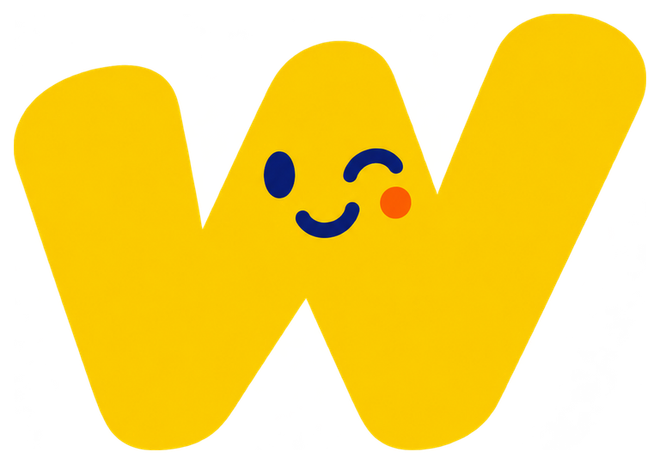
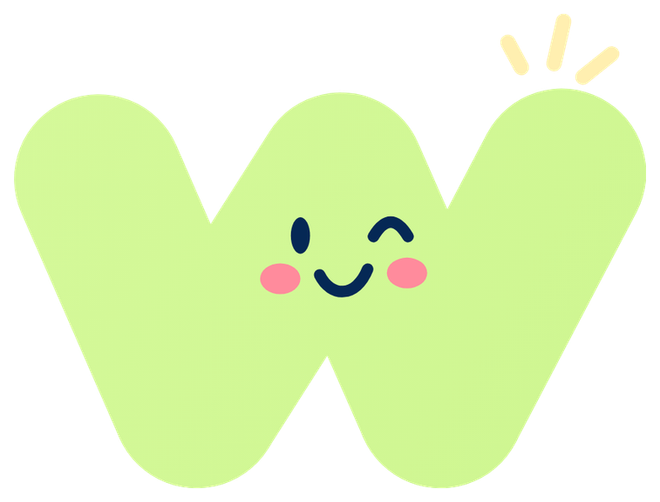
Refresh Worldia support for build 17 and lime mascot

diff --git a/worldia/assets/worldia.css b/worldia/assets/worldia.css
@@ -1,6 +1,9 @@
 /* Worldia-specific refresh. The publisher index and other apps retain their styles. */
-body.worldia-site{--ink:#252844;--deep:#7862b5;--teal:#544387;--paper:#fffdf7;--rule:#e0dceb;--muted:#5d5d70;--cream:#f6e3ad;--serif:ui-rounded,"SF Pro Rounded",system-ui,-apple-system,"Segoe UI",sans-serif}
-.worldia-site .brand{font-weight:850;letter-spacing:-.06em}.worldia-site .mast{background:#fffdf9}.worldia-site .mast .brand img{width:42px;height:42px;border-radius:13px}.worldia-site .hero{color:var(--ink);background:#ede6fa}.worldia-site .hero .wrap{grid-template-columns:1.25fr .85fr;padding-block:clamp(3rem,6vw,5rem);gap:4rem}.worldia-site .hero h1{font-weight:850;font-size:clamp(3.1rem,5.5vw,5rem);line-height:1.06;letter-spacing:-.055em}.worldia-site .hero h1 em{font-weight:850;color:#65509e;font-style:normal}.worldia-site .hero .eyebrow{color:#544387}.worldia-site .eyebrow:before{background:#a27017}.worldia-site .hero p.lede{color:#49425c;font-size:1.12rem;max-width:34em;line-height:1.7}.hero-actions{display:flex;gap:1.2rem;align-items:center;flex-wrap:wrap}.worldia-site .hero .button{background:#44376e;color:#fff}.worldia-site .hero .button:hover{background:#2f244f}.hero-link{font-weight:650;color:#44376e;min-height:44px;display:inline-flex;align-items:center}.worldia-site .hero .hero-note{color:#655d76;font-size:.8rem;margin-top:1.5rem}.mascot-card{margin:0;min-width:0;border-radius:38px;background:linear-gradient(145deg,#a38bdd,#839adf);box-shadow:0 16px 0 #7766ad1c;padding:1.5rem 1rem 2rem;display:flex;flex-direction:column;align-items:center;transform:rotate(3deg)}.mascot-card img{display:block;width:100%;max-width:330px;height:auto;margin:1.5rem 0 1rem}.mascot-label{font-size:.74rem;font-weight:800;letter-spacing:.12em;text-transform:uppercase;color:#292547;background:#ffffff70;padding:.35rem .8rem;border-radius:20px}.mascot-card figcaption{text-align:center;font-size:1.3rem;font-weight:800;line-height:1.25;color:#292547;letter-spacing:-.03em}.worldia-site .guide h2,.worldia-site .screens-section h2{font-size:clamp(1.9rem,3.1vw,2.7rem);font-weight:800;line-height:1.16;letter-spacing:-.045em}.feature-grid{display:grid;grid-template-columns:repeat(3,minmax(0,1fr));gap:2rem;margin-top:2.3rem}.feature{border-top:2px solid var(--rule);padding-top:1.3rem}.feature-number{font-size:2.7rem;line-height:1;font-weight:850;letter-spacing:-.07em;color:#67509b}.feature h3{font-size:1.15rem;margin:1rem 0 .5rem;line-height:1.3;letter-spacing:-.025em}.feature p,.journal-grid p:not(.eyebrow){color:var(--muted);margin:.5rem 0 0;line-height:1.8}.screens-section{background:#f5f0e6;border-block:1px solid #e8e1d5;padding:3rem 0}.screens-section h2{margin:0 0 2rem}.screens-grid{display:grid;grid-template-columns:repeat(4,minmax(0,1fr));gap:1.2rem}.screens-grid figure{margin:0;min-width:0}.screens-grid a{display:block;background:#fff;border:1px solid #e6e1d8;border-radius:19px;overflow:hidden;box-shadow:0 5px 12px #25284409}.screens-grid img{display:block;width:100%;height:auto;aspect-ratio:6/13;object-fit:contain;object-position:top;background:#fafafa}.screens-grid figcaption{display:flex;flex-direction:column;gap:.35rem;padding:1rem .15rem 0;line-height:1.55;font-size:.85rem;color:var(--muted)}.screens-grid figcaption strong{font-size:1rem;color:var(--ink);line-height:1.3}.screen-note{font-size:.76rem;color:#68646a;margin:1.5rem 0 0}.journal-grid{display:grid;grid-template-columns:1fr 1fr;gap:3rem}.journal-grid article+article{border-left:1px solid var(--rule);padding-left:3rem}.journal-grid h2{margin:0 0 1rem;max-width:13em}.help-section{background:#eee8f7}.worldia-site .card{background:#fffefa;border-radius:16px;padding:1.4rem;box-shadow:none}.worldia-site .card strong{font-size:1.35rem;font-weight:750;letter-spacing:-.035em}.worldia-site .card:hover{border-color:#a48acb}.worldia-site .card .tag{margin-bottom:.8rem}.offline-note{font-size:.88rem;color:var(--muted);margin:1.7rem 0 0;max-width:68em}.worldia-site .pagehead{background:#eee8f7}.worldia-site .pagehead h1{font-weight:800;font-size:clamp(2.2rem,4.5vw,3.5rem);letter-spacing:-.05em}.worldia-site .copy h2{font-weight:750;letter-spacing:-.03em;font-size:clamp(1.35rem,2.5vw,1.8rem)}.worldia-site .aside{background:#f0edf6}.worldia-site .button{border-radius:10px}.worldia-site .foot{background:#fffdf9}.worldia-site a:focus-visible,.worldia-site summary:focus-visible{outline-color:#7251bd}
+body.worldia-site{--ink:#062753;--deep:#062753;--teal:#123b64;--paper:#fffef9;--rule:#dbe5dd;--muted:#526271;--cream:#fff0b7;--serif:ui-rounded,"SF Pro Rounded",system-ui,-apple-system,"Segoe UI",sans-serif}
+.worldia-site .brand{font-weight:850;letter-spacing:-.06em}.worldia-site .mast{background:#fffdf9}.worldia-site .mast .brand img{width:42px;height:42px;border-radius:13px}.worldia-site .hero{color:var(--ink);background:#edf4e9}.worldia-site .hero .wrap{grid-template-columns:1.25fr .85fr;padding-block:clamp(3rem,6vw,5rem);gap:4rem}.worldia-site .hero h1{font-weight:850;font-size:clamp(3.1rem,5.5vw,5rem);line-height:1.06;letter-spacing:-.055em}.worldia-site .hero h1 em{font-weight:850;color:#123b64;font-style:normal}.worldia-site .hero .eyebrow{color:#123b64}.worldia-site .eyebrow:before{background:#598230}.worldia-site .hero p.lede{color:#40596c;font-size:1.12rem;max-width:34em;line-height:1.7}.hero-actions{display:flex;gap:1.2rem;align-items:center;flex-wrap:wrap}.worldia-site .hero .button{background:#062753;color:#fff}.worldia-site .hero .button:hover{background:#0b3a6c}.hero-link{font-weight:650;color:#062753;min-height:44px;display:inline-flex;align-items:center}.worldia-site .hero .hero-note{color:#526271;font-size:.8rem;margin-top:1.5rem}.mascot-card{margin:0;min-width:0;border-radius:38px;background:linear-gradient(145deg,#0b315e,#031c40);box-shadow:0 16px 0 #0627531c;padding:1.5rem 1rem 2rem;display:flex;flex-direction:column;align-items:center;transform:rotate(3deg)}.mascot-card img{display:block;width:100%;max-width:330px;height:auto;margin:1.5rem 0 1rem}.mascot-label{font-size:.74rem;font-weight:800;letter-spacing:.12em;text-transform:uppercase;color:#e5ffba;background:#ffffff14;padding:.35rem .8rem;border-radius:20px}.mascot-card figcaption{text-align:center;font-size:1.3rem;font-weight:800;line-height:1.25;color:#e5ffba;letter-spacing:-.03em}.worldia-site .guide h2,.worldia-site .screens-section h2{font-size:clamp(1.9rem,3.1vw,2.7rem);font-weight:800;line-height:1.16;letter-spacing:-.045em}.feature-grid{display:grid;grid-template-columns:repeat(3,minmax(0,1fr));gap:2rem;margin-top:2.3rem}.feature{border-top:2px solid var(--rule);padding-top:1.3rem}.feature-number{font-size:2.7rem;line-height:1;font-weight:850;letter-spacing:-.07em;color:#123b64}.feature h3{font-size:1.15rem;margin:1rem 0 .5rem;line-height:1.3;letter-spacing:-.025em}.feature p,.journal-grid p:not(.eyebrow){color:var(--muted);margin:.5rem 0 0;line-height:1.8}.screens-section{background:#f5f0e6;border-block:1px solid #e8e1d5;padding:3rem 0}.screens-section h2{margin:0 0 2rem}.screens-grid{display:grid;grid-template-columns:repeat(4,minmax(0,1fr));gap:1.2rem}.screens-grid figure{margin:0;min-width:0}.screens-grid a{display:block;background:#fff;border:1px solid #e6e1d8;border-radius:19px;overflow:hidden;box-shadow:0 5px 12px #06275309}.screens-grid img{display:block;width:100%;height:auto;aspect-ratio:6/13;object-fit:contain;object-position:top;background:#fafafa}.screens-grid figcaption{display:flex;flex-direction:column;gap:.35rem;padding:1rem .15rem 0;line-height:1.55;font-size:.85rem;color:var(--muted)}.screens-grid figcaption strong{font-size:1rem;color:var(--ink);line-height:1.3}.screen-note{font-size:.76rem;color:#526271;margin:1.5rem 0 0}.journal-grid{display:grid;grid-template-columns:1fr 1fr;gap:3rem}.journal-grid article+article{border-left:1px solid var(--rule);padding-left:3rem}.journal-grid h2{margin:0 0 1rem;max-width:13em}.help-section{background:#edf4e9}.worldia-site .card{background:#fffefa;border-radius:16px;padding:1.4rem;box-shadow:none}.worldia-site .card strong{font-size:1.35rem;font-weight:750;letter-spacing:-.035em}.worldia-site .card:hover{border-color:#89b64f}.worldia-site .card .tag{margin-bottom:.8rem}.offline-note{font-size:.88rem;color:var(--muted);margin:1.7rem 0 0;max-width:68em}.worldia-site .pagehead{background:#edf4e9}.worldia-site .pagehead h1{font-weight:800;font-size:clamp(2.2rem,4.5vw,3.5rem);letter-spacing:-.05em}.worldia-site .copy h2{font-weight:750;letter-spacing:-.03em;font-size:clamp(1.35rem,2.5vw,1.8rem)}.worldia-site .aside{background:#edf4e9}.worldia-site .button{border-radius:10px}.worldia-site .foot{background:#fffdf9}.worldia-site a:focus-visible,.worldia-site summary:focus-visible{outline-color:#275d8f}
 @media(max-width:900px){.worldia-site .hero .wrap{gap:2rem}.screens-grid{grid-template-columns:repeat(2,minmax(0,1fr));gap:2rem;max-width:650px;margin-inline:auto}.feature-grid{gap:1.25rem}.mascot-card{border-radius:28px;padding:1rem .75rem 1.5rem}.mascot-card figcaption{font-size:1.1rem}}
 @media(max-width:600px){.worldia-site .hero .wrap{grid-template-columns:1fr;padding-block:2.5rem;gap:2.5rem}.worldia-site .hero h1{font-size:3.25rem}.worldia-site .hero p.lede{font-size:1.02rem}.mascot-card{width:min(80%,310px);margin-inline:auto;transform:rotate(2deg)}.mascot-card img{margin:1rem 0 .5rem}.worldia-site .guide{padding-block:2.5rem}.feature-grid{grid-template-columns:1fr;gap:1.7rem}.feature{display:grid;grid-template-columns:74px 1fr;column-gap:1rem;align-items:start}.feature-number{grid-row:1/3;font-size:2.6rem}.feature h3{margin:.1rem 0 .4rem}.feature p{margin:0}.screens-section{padding:2.5rem 0}.screens-grid{gap:1.6rem .9rem}.screens-grid a{border-radius:12px}.screens-grid figcaption{font-size:.8rem}.screens-grid figcaption strong{font-size:.95rem}.journal-grid{grid-template-columns:1fr;gap:2.5rem}.journal-grid article+article{padding:2.5rem 0 0;border-left:0;border-top:1px solid var(--rule)}.worldia-site .mast nav a{font-size:.85rem}.worldia-site .pagehead .intro{font-size:1rem}.worldia-site .pagehead h1{font-size:2.3rem}}
 @media print{.worldia-site .hero,.worldia-site .pagehead,.help-section,.screens-section{background:white;color:black}.mascot-card,.screens-grid{display:none}.feature-grid,.journal-grid{display:block}.journal-grid article+article{border:0;padding:0}.worldia-site .hero h1 em{color:black}}
+
+/* Build 17: concise player-facing release help and the new W. */
+.release-note{border:1px solid #dbe5dd;background:#f1f7eb;border-radius:18px;padding:1.3rem;margin-bottom:2rem}.release-heading{display:flex;gap:1rem;align-items:center}.release-heading img{border-radius:17px;flex-shrink:0}.release-heading h2{margin:0!important;font-size:1.4rem!important}.release-label{font-size:.66rem;letter-spacing:.12em;font-weight:800;color:#526271;margin:0 0 .2rem!important}.release-note>p:last-child{margin-bottom:0}.build-note{font-size:.82rem;margin:1rem 0 0}.build-note a{color:#123b64;font-weight:650}.mascot-story{background:#fffdf2;border-block:1px solid #e8e1d5}.mascot-story .wrap{display:grid;grid-template-columns:230px 1fr;gap:3rem;align-items:center;padding-block:3rem}.mascot-story img{width:100%;height:auto}.mascot-story h2{font-size:clamp(1.7rem,3vw,2.5rem);letter-spacing:-.04em;line-height:1.2;margin:0 0 1rem}.mascot-story p:not(.eyebrow){color:var(--muted);line-height:1.8}.mascot-story a{font-weight:650}@media(max-width:600px){.release-note{padding:1rem}.release-heading{gap:.8rem}.release-heading h2{font-size:1.25rem!important}.mascot-story .wrap{grid-template-columns:1fr;gap:1.2rem;padding-block:2.5rem}.mascot-story img{width:180px;margin:auto}.mascot-story h2{font-size:1.9rem}}

diff --git a/worldia/index.html b/worldia/index.html
@@ -1,9 +1,9 @@
 <!doctype html>
-<html lang="tr"><head><meta charset="utf-8"><meta name="viewport" content="width=device-width,initial-scale=1"><meta name="theme-color" content="#8973ce">
-<title>Worldia · Keşfet, öğren, düello yap | SoftwareLuna</title><meta name="description" content="Worldia ile 400 etapta keşfet, arkadaşlarınla düello yap, pasaportunu doldur. Oyun ekranları, destek, gizlilik ve hesap yönetimi."><link rel="canonical" href="https://softwareluna.github.io/worldia/"><link rel="icon" type="image/png" href="assets/worldia.png"><link rel="stylesheet" href="assets/guide.css"><link rel="stylesheet" href="assets/worldia.css"></head>
-<body class="worldia-site"><a class="skip" href="#icerik">İçeriğe geç</a><header class="mast"><div class="wrap"><a class="brand" href="./"><img src="assets/worldia.png" width="37" height="37" alt="">Worldia</a><nav aria-label="Ana menü"><a href="support/">Destek</a><a href="privacy/">Gizlilik</a><a href="delete-account/">Hesap silme</a></nav></div></header>
+<html lang="tr"><head><meta charset="utf-8"><meta name="viewport" content="width=device-width,initial-scale=1"><meta name="theme-color" content="#062753">
+<title>Worldia · Keşfet, öğren, düello yap | SoftwareLuna</title><meta name="description" content="Worldia ile 400 etapta keşfet, arkadaşlarınla düello yap, pasaportunu doldur. Oyun ekranları, destek, gizlilik ve hesap yönetimi."><link rel="canonical" href="https://softwareluna.github.io/worldia/"><link rel="icon" type="image/png" href="assets/worldia.png?v=17"><link rel="stylesheet" href="assets/guide.css"><link rel="stylesheet" href="assets/worldia.css?v=17"></head>
+<body class="worldia-site"><a class="skip" href="#icerik">İçeriğe geç</a><header class="mast"><div class="wrap"><a class="brand" href="./"><img src="assets/worldia.png?v=17" width="37" height="37" alt="">Worldia</a><nav aria-label="Ana menü"><a href="support/">Destek</a><a href="privacy/">Gizlilik</a><a href="delete-account/">Hesap silme</a></nav></div></header>
 <main id="icerik">
-<section class="hero"><div class="wrap"><div><p class="eyebrow">SoftwareLuna / Worldia</p><h1>Merak et.<br>Keşfet.<br><em>Eğlenerek öğren.</em></h1><p class="lede">Bir bayrağı tanı, haritada bir ülke bul, bir arkadaşına meydan oku. Worldia’da her etap, 10 soruluk yeni bir keşif.</p><div class="hero-actions"><a class="button" href="#oyunu-kesfet">Oyunu keşfet <span aria-hidden="true">↓</span></a><a class="hero-link" href="support/">Yardıma mı ihtiyacın var?</a></div><p class="hero-note">Türkçe sorular · Çevrimdışı tek kişilik oyun · Arkadaşlarla düello</p></div><figure class="mascot-card"><span class="mascot-label">Yol arkadaşın W</span><img src="assets/worldia-happy.png" width="768" height="540" alt="Göz kırpan, gülümseyen sarı W maskotu"><figcaption>Bir sonraki durakta<br>yeni bir şey öğren.</figcaption></figure></div></section>
+<section class="hero"><div class="wrap"><div><p class="eyebrow">SoftwareLuna / Worldia</p><h1>Merak et.<br>Keşfet.<br><em>Eğlenerek öğren.</em></h1><p class="lede">Bir bayrağı tanı, haritada bir ülke bul, bir arkadaşına meydan oku. Worldia’da her etap, 10 soruluk yeni bir keşif.</p><div class="hero-actions"><a class="button" href="#oyunu-kesfet">Oyunu keşfet <span aria-hidden="true">↓</span></a><a class="hero-link" href="support/">Yardıma mı ihtiyacın var?</a></div><p class="hero-note">Türkçe sorular · Çevrimdışı tek kişilik oyun · Arkadaşlarla düello</p><p class="build-note"><a href="support/#guncel-surum">TestFlight 4.0.0 (17): yeni W, kısa sonuç animasyonları →</a></p></div><figure class="mascot-card"><span class="mascot-label">Yol arkadaşın W</span><img src="assets/worldia-happy.png?v=17" width="660" height="502" alt="Bir gözü açık, diğer gözü kırpan yeşil Worldia W maskotu"><figcaption>Birlikte sevin,<br>yeniden dene.</figcaption></figure></div></section>
 <section class="guide wrap" id="oyunu-kesfet"><p class="eyebrow">Küçük turlar, büyük keşifler</p><h2>Her gün başka bir merak.</h2><div class="feature-grid">
 <article class="feature"><span class="feature-number">400</span><h3>Etapta dünyayı dolaş</h3><p>8 dünyada rotanı aç. Haritalar ve bayraklardan sanata, tarihe, şehirler ve mutfağa uzanan 9 kategoride kendini sına.</p></article>
 <article class="feature"><span class="feature-number">10</span><h3>Aynı soru, iki arkadaş</h3><p>Arkadaşınla aynı soruları kendi zamanınızda yanıtlayın. İki tur da bitince sonucu, karşılıklı maç sayınızı ve galibiyet oranını görün.</p></article>
@@ -12,10 +12,10 @@
 <section class="screens-section"><div class="wrap"><p class="eyebrow">Oyunun içinden</p><h2>Bilgilen, dene, bir daha keşfet.</h2><div class="screens-grid">
 <figure><a href="assets/route.webp" aria-label="Rota ekranını büyük aç"><img src="assets/route.webp" width="480" height="1040" loading="lazy" alt="Renkli Kıyılar rotasında açılan soru kategorileri ve etaplar"></a><figcaption><strong>Rotanı çiz</strong><span>Etapları geç, yıldız topla ve yeni duraklara ulaş.</span></figcaption></figure>
 <figure><a href="assets/question.webp" aria-label="Soru ekranını büyük aç"><img src="assets/question.webp" width="480" height="1040" loading="lazy" alt="Japonya bayrağını soran dört seçenekli Worldia sorusu"></a><figcaption><strong>Bildiklerini sına</strong><span>Cevabını seç, doğru yanıtı gör; her turda yeni bir şey öğren.</span></figcaption></figure>
-<figure><a href="assets/duel-result.webp" aria-label="Düello sonucunu büyük aç"><img src="assets/duel-result.webp" width="480" height="1040" loading="lazy" alt="Mutlu W maskotuyla sonuçlanan bir düello galibiyeti"></a><figcaption><strong>Arkadaşına meydan oku</strong><span>Açık düelloları, geçmiş maçlarını ve arkadaş istatistiklerini takip et.</span></figcaption></figure>
+<figure><a href="assets/stage-result-17.webp" aria-label="Etap sonucunu büyük aç"><img src="assets/stage-result-17.webp" width="480" height="1043" loading="lazy" alt="Yeni yeşil W maskotuyla tamamlanan etap ve üç yıldızlı sonuç ekranı"></a><figcaption><strong>W ile birlikte sevin</strong><span>Etap sonunda yıldızlarını gör. Yeni W, kısa bir zıplama ve konfetiyle kutlamana katılır.</span></figcaption></figure>
 <figure><a href="assets/achievements.webp" aria-label="Başarımlar ekranını büyük aç"><img src="assets/achievements.webp" width="480" height="1040" loading="lazy" alt="Kategori ve uzun vadeli hedeflerin yer aldığı Başarımlar ekranı"></a><figcaption><strong>Hedeflerini büyüt</strong><span>Başarımlardan ödül kazan. Düellolarda kendi rekorunu geliştir.</span></figcaption></figure>
 </div><p class="screen-note">Oyun ekranları örnek ilerleme ve maç verileriyle gösterilmiştir.</p></div></section>
 <section class="guide wrap"><div class="journal-grid"><article><p class="eyebrow">Pasaportun sana özel</p><h2>Her dünyanın bir damgası var.</h2><p>Tamamladığın dünyaları pasaportuna işle. Yıldızlarını, kazandığın ödülleri ve yolculuğun boyunca biriken damgalarını sayfa sayfa gör.</p></article><article><p class="eyebrow">Günlük seri</p><h2>Bir etap, yeni bir gün.</h2><p>Günlük seriyi ilerletmek için yalnızca uygulamayı açmak yetmez: en az bir etabı başarıyla tamamla. Günlük seri ve uzun vadeli başarımlarla keşfetme alışkanlığını büyüt.</p></article></div></section>
-<section class="help-section"><div class="guide wrap"><p class="eyebrow">Oyuncu rehberi</p><h2>Yardım için doğru yerdesin.</h2><div class="cards"><a class="card" href="support/"><span class="tag">01 / YARDIM</span><strong>Oyuncu desteği</strong><p>Hesap erişimi, düellolar, başarımlar ve ödüllü reklamlar hakkında yardım al.</p><span class="go">Desteği aç <span aria-hidden="true">→</span></span></a><a class="card" href="privacy/"><span class="tag">02 / VERİLER</span><strong>Gizlilik politikası</strong><p>Nelerin cihazında kaldığını, nelerin çevrimiçi işlendiğini öğren.</p><span class="go">Politikayı oku <span aria-hidden="true">→</span></span></a><a class="card" href="delete-account/"><span class="tag">03 / HESAP</span><strong>Hesap ve veri silme</strong><p>Oyundan veya e-postayla çevrimiçi hesabının silinmesini iste.</p><span class="go">Silme seçenekleri <span aria-hidden="true">→</span></span></a></div><p class="offline-note">Tek kişilik oyun için hesap gerekmez. Arkadaşlar ve düellolar internet bağlantısı gerektirir. E-posta bağlamak ve ödüllü reklam izlemek isteğe bağlıdır.</p></div></section>
+<section class="mascot-story"><div class="wrap"><img src="assets/worldia-happy.png?v=17" width="660" height="502" loading="lazy" alt="Göz kırpan yeşil W"><div><p class="eyebrow">Yeni yol arkadaşın</p><h2>W de heyecanına ortak.</h2><p>Etap sonunda ya da düellonun galibi belli olduğunda kısa bir tepki: kazanınca zıplama ve küçük konfeti, kaybedince yüzünü kapatıp ağlama. Bir sonraki deneme için her zaman yanında.</p><a href="support/#sorular">Maskot ve erişilebilirlik hakkında →</a></div></div></section><section class="help-section"><div class="guide wrap"><p class="eyebrow">Oyuncu rehberi</p><h2>Yardım için doğru yerdesin.</h2><div class="cards"><a class="card" href="support/"><span class="tag">01 / YARDIM</span><strong>Oyuncu desteği</strong><p>Hesap erişimi, düellolar, başarımlar ve ödüllü reklamlar hakkında yardım al.</p><span class="go">Desteği aç <span aria-hidden="true">→</span></span></a><a class="card" href="privacy/"><span class="tag">02 / VERİLER</span><strong>Gizlilik politikası</strong><p>Nelerin cihazında kaldığını, nelerin çevrimiçi işlendiğini öğren.</p><span class="go">Politikayı oku <span aria-hidden="true">→</span></span></a><a class="card" href="delete-account/"><span class="tag">03 / HESAP</span><strong>Hesap ve veri silme</strong><p>Oyundan veya e-postayla çevrimiçi hesabının silinmesini iste.</p><span class="go">Silme seçenekleri <span aria-hidden="true">→</span></span></a></div><p class="offline-note">Tek kişilik oyun için hesap gerekmez. Arkadaşlar ve düellolar internet bağlantısı gerektirir. E-posta bağlamak ve ödüllü reklam izlemek isteğe bağlıdır.</p></div></section>
 </main>
 <footer class="foot"><div class="wrap"><p><a href="/">SoftwareLuna</a> · Worldia</p><nav aria-label="Alt menü"><a href="support/">Destek</a><a href="privacy/">Gizlilik</a><a href="delete-account/">Hesap silme</a></nav></div></footer></body></html>

diff --git a/worldia/support/index.html b/worldia/support/index.html
@@ -1,8 +1,12 @@
 <!doctype html>
-<html lang="tr"><head><meta charset="utf-8"><meta name="viewport" content="width=device-width,initial-scale=1"><meta name="theme-color" content="#8973ce">
-<title>Worldia desteği · SoftwareLuna</title><meta name="description" content="Hesap erişimi, düellolar ve oyunla ilgili sorularınız için SoftwareLuna ekibine ulaşın."><link rel="canonical" href="https://softwareluna.github.io/worldia/support/"><link rel="icon" type="image/png" href="../assets/worldia.png"><link rel="stylesheet" href="../assets/guide.css"><link rel="stylesheet" href="../assets/worldia.css"></head>
-<body class="worldia-site"><a class="skip" href="#icerik">İçeriğe geç</a><header class="mast"><div class="wrap"><a class="brand" href="../"><img src="../assets/worldia.png" width="37" height="37" alt="">Worldia</a><nav aria-label="Ana menü"><a href="../support/" aria-current="page">Destek</a><a href="../privacy/">Gizlilik</a><a href="../delete-account/">Hesap silme</a></nav></div></header>
-<main id="icerik"><header class="pagehead"><div class="wrap"><a class="crumb" href="../">← Worldia</a><p class="eyebrow">01 / OYUNCU DESTEĞİ</p><h1>Worldia desteği</h1><p class="intro">Hesap erişimi, düellolar ve oyunla ilgili sorularınız için SoftwareLuna ekibine ulaşın.</p></div></header><div class="wrap layout"><article class="copy" aria-label="Worldia desteği"><section aria-labelledby="destek-iletisim">
+<html lang="tr"><head><meta charset="utf-8"><meta name="viewport" content="width=device-width,initial-scale=1"><meta name="theme-color" content="#062753">
+<title>Worldia desteği · SoftwareLuna</title><meta name="description" content="Hesap erişimi, düellolar ve oyunla ilgili sorularınız için SoftwareLuna ekibine ulaşın."><link rel="canonical" href="https://softwareluna.github.io/worldia/support/"><link rel="icon" type="image/png" href="../assets/worldia.png?v=17"><link rel="stylesheet" href="../assets/guide.css"><link rel="stylesheet" href="../assets/worldia.css?v=17"></head>
+<body class="worldia-site"><a class="skip" href="#icerik">İçeriğe geç</a><header class="mast"><div class="wrap"><a class="brand" href="../"><img src="../assets/worldia.png?v=17" width="37" height="37" alt="">Worldia</a><nav aria-label="Ana menü"><a href="../support/" aria-current="page">Destek</a><a href="../privacy/">Gizlilik</a><a href="../delete-account/">Hesap silme</a></nav></div></header>
+<main id="icerik"><header class="pagehead"><div class="wrap"><a class="crumb" href="../">← Worldia</a><p class="eyebrow">01 / OYUNCU DESTEĞİ</p><h1>Worldia desteği</h1><p class="intro">Hesap erişimi, düellolar ve oyunla ilgili sorularınız için SoftwareLuna ekibine ulaşın.</p></div></header><div class="wrap layout"><article class="copy" aria-label="Worldia desteği"><section class="release-note" aria-labelledby="guncel-surum">
+  <div class="release-heading"><img src="../assets/worldia.png?v=17" width="64" height="64" alt="Yeni lacivert ve yeşil Worldia logosu"><div><p class="release-label">TESTFLIGHT TEST SÜRÜMÜ</p><h2 id="guncel-surum">4.0.0 · Build 17</h2></div></div>
+  <p>Yeni göz kırpan W, lacivert ve yeşil tasarımıyla yolculuğunuza eşlik ediyor. Kazandığınızda kısa bir zıplama ve küçük konfeti, kaybettiğinizde yüzünü kapatıp ağlama hareketi gösterir.</p>
+  <p>TestFlight kullanıyorsanız Worldia sayfasında <strong>4.0.0 (17)</strong> sürümünü kontrol edin. Eski logo görünüyorsa güncellemeyi TestFlight üzerinden yükleyin. Destek talebinize sürüm ve build numarasını eklemeniz sorunu bulmamızı kolaylaştırır.</p>
+</section><section aria-labelledby="destek-iletisim">
   <h2 id="destek-iletisim">Worldia ekibine ulaşın</h2>
   <p>Takıldığınız ekranı ve ne yaparken sorunla karşılaştığınızı yazın. Cihaz modelinizi, Android ya da iOS sürümünü, Worldia sürümünü ve varsa ekrandaki hata mesajını belirtin. Reklam sorunuysa ekranda görünen yazıyı aynen ekleyin. Şifre veya doğrulama kodu göndermeyin.</p>
   <p><a class="button" href="mailto:serdengecti.emre@gmail.com?subject=Worldia%20destek%20talebi">Destek ekibine e-posta yaz</a></p>
@@ -10,6 +14,14 @@
 </section>
 <section aria-labelledby="sorular">
   <h2 id="sorular">Sık sorulan sorular</h2>
+  <details>
+    <summary>W maskotu hangi sonuçlarda hareket ediyor?</summary>
+    <p>Tek kişilik etapların sonucunda ve galibi kesinleşmiş düellolarda oynar. Hareket yaklaşık 1,4 saniye sürer, yalnızca bir kez oynar ve düğmelere basmanızı engellemez. Rakibin turu beklenirken veya düello berabere bittiğinde galibiyet kutlaması gösterilmez.</p>
+  </details>
+  <details>
+    <summary>Maskot hareket etmiyor. Bu bir sorun mu?</summary>
+    <p>Telefonunuzun erişilebilirlik ayarlarında hareket azaltma açıksa W sabit bir ifade gösterir. Bu beklenen davranıştır; oyun sonucunu, yıldızları veya ödülleri değiştirmez. Animasyonun bitmiş olması da normaldir: ekranda durdukça sürekli tekrar etmez.</p>
+  </details>
   <details>
     <summary>İnternet olmadan oynayabilir miyim?</summary>
     <p>Evet. Tek kişilik harita ve sorular için hesap açmanız gerekmez. Pasaportunuz ve etap ilerlemeniz cihazınızda saklanır. Arkadaşlar ve düellolar için internet bağlantısı gerekir. Ödüllü reklamlar da çevrimiçi çalışır.</p>
@@ -52,5 +64,5 @@
     <p>Hangi bilgilerin hangi amaçla kullanıldığını <a href="../privacy/">Worldia Gizlilik Politikası</a> sayfasında bulabilirsiniz. <a href="../delete-account/">Hesap ve veri silme</a> sayfasından uygulamaya giriş yapmadan da silme talebi başlatabilirsiniz.</p>
   </details>
 </section>
-</article><aside class="aside"><h2>Bu sayfada</h2><nav aria-label="Sayfa içeriği"><a href="#destek-iletisim">Worldia ekibine ulaşın</a><a href="#sorular">Sık sorulan sorular</a></nav></aside></div></main>
+</article><aside class="aside"><h2>Bu sayfada</h2><nav aria-label="Sayfa içeriği"><a href="#guncel-surum">Güncel test sürümü</a><a href="#destek-iletisim">Worldia ekibine ulaşın</a><a href="#sorular">Sık sorulan sorular</a></nav></aside></div></main>
 <footer class="foot"><div class="wrap"><p><a href="/">SoftwareLuna</a> · Worldia</p><nav aria-label="Alt menü"><a href="../support/" aria-current="page">Destek</a><a href="../privacy/">Gizlilik</a><a href="../delete-account/">Hesap silme</a></nav></div></footer></body></html>

diff --git a/worldia/delete-account/index.html b/worldia/delete-account/index.html
@@ -1,7 +1,7 @@
 <!doctype html>
-<html lang="tr"><head><meta charset="utf-8"><meta name="viewport" content="width=device-width,initial-scale=1"><meta name="theme-color" content="#8973ce">
-<title>Hesap ve veri silme · SoftwareLuna</title><meta name="description" content="Worldia arkadaş hesabınızı uygulamadan silebilir veya SoftwareLuna’ya e-postayla silme talebi iletebilirsiniz."><link rel="canonical" href="https://softwareluna.github.io/worldia/delete-account/"><link rel="icon" type="image/png" href="../assets/worldia.png"><link rel="stylesheet" href="../assets/guide.css"><link rel="stylesheet" href="../assets/worldia.css"></head>
-<body class="worldia-site"><a class="skip" href="#icerik">İçeriğe geç</a><header class="mast"><div class="wrap"><a class="brand" href="../"><img src="../assets/worldia.png" width="37" height="37" alt="">Worldia</a><nav aria-label="Ana menü"><a href="../support/">Destek</a><a href="../privacy/">Gizlilik</a><a href="../delete-account/" aria-current="page">Hesap silme</a></nav></div></header>
+<html lang="tr"><head><meta charset="utf-8"><meta name="viewport" content="width=device-width,initial-scale=1"><meta name="theme-color" content="#062753">
+<title>Hesap ve veri silme · SoftwareLuna</title><meta name="description" content="Worldia arkadaş hesabınızı uygulamadan silebilir veya SoftwareLuna’ya e-postayla silme talebi iletebilirsiniz."><link rel="canonical" href="https://softwareluna.github.io/worldia/delete-account/"><link rel="icon" type="image/png" href="../assets/worldia.png?v=17"><link rel="stylesheet" href="../assets/guide.css"><link rel="stylesheet" href="../assets/worldia.css?v=17"></head>
+<body class="worldia-site"><a class="skip" href="#icerik">İçeriğe geç</a><header class="mast"><div class="wrap"><a class="brand" href="../"><img src="../assets/worldia.png?v=17" width="37" height="37" alt="">Worldia</a><nav aria-label="Ana menü"><a href="../support/">Destek</a><a href="../privacy/">Gizlilik</a><a href="../delete-account/" aria-current="page">Hesap silme</a></nav></div></header>
 <main id="icerik"><header class="pagehead"><div class="wrap"><a class="crumb" href="../">← Worldia</a><p class="eyebrow">03 / HESAP YÖNETİMİ</p><h1>Hesap ve veri silme</h1><p class="intro">Worldia arkadaş hesabınızı uygulamadan silebilir veya SoftwareLuna’ya e-postayla silme talebi iletebilirsiniz.</p></div></header><div class="wrap layout"><article class="copy" aria-label="Hesap ve veri silme"><section aria-labelledby="webden-silme">
   <h2 id="webden-silme">Uygulama olmadan silme talebi gönderin</h2>
   <p>Worldia’yı yeniden yüklemeniz veya bir hesaba giriş yapmanız gerekmez. SoftwareLuna desteğine, Worldia hesabınızın ve ilişkili çevrimiçi verilerinizin silinmesini istediğinizi yazın. Biliyorsanız oyundaki <strong>@kullanıcı adınızı</strong> belirtin. Hesaba e-posta bağladıysanız o adresten yazmanız hesabın size ait olduğunu doğrulamaya yardımcı olur.</p>

diff --git a/worldia/privacy/index.html b/worldia/privacy/index.html
@@ -1,7 +1,7 @@
 <!doctype html>
-<html lang="tr"><head><meta charset="utf-8"><meta name="viewport" content="width=device-width,initial-scale=1"><meta name="theme-color" content="#8973ce">
-<title>Worldia Gizlilik Politikası · SoftwareLuna</title><meta name="description" content="Yayıncı: SoftwareLuna · Son güncelleme: 14 Kasım 2026"><link rel="canonical" href="https://softwareluna.github.io/worldia/privacy/"><link rel="icon" type="image/png" href="../assets/worldia.png"><link rel="stylesheet" href="../assets/guide.css"><link rel="stylesheet" href="../assets/worldia.css"></head>
-<body class="worldia-site"><a class="skip" href="#icerik">İçeriğe geç</a><header class="mast"><div class="wrap"><a class="brand" href="../"><img src="../assets/worldia.png" width="37" height="37" alt="">Worldia</a><nav aria-label="Ana menü"><a href="../support/">Destek</a><a href="../privacy/" aria-current="page">Gizlilik</a><a href="../delete-account/">Hesap silme</a></nav></div></header>
+<html lang="tr"><head><meta charset="utf-8"><meta name="viewport" content="width=device-width,initial-scale=1"><meta name="theme-color" content="#062753">
+<title>Worldia Gizlilik Politikası · SoftwareLuna</title><meta name="description" content="Yayıncı: SoftwareLuna · Son güncelleme: 14 Kasım 2026"><link rel="canonical" href="https://softwareluna.github.io/worldia/privacy/"><link rel="icon" type="image/png" href="../assets/worldia.png?v=17"><link rel="stylesheet" href="../assets/guide.css"><link rel="stylesheet" href="../assets/worldia.css?v=17"></head>
+<body class="worldia-site"><a class="skip" href="#icerik">İçeriğe geç</a><header class="mast"><div class="wrap"><a class="brand" href="../"><img src="../assets/worldia.png?v=17" width="37" height="37" alt="">Worldia</a><nav aria-label="Ana menü"><a href="../support/">Destek</a><a href="../privacy/" aria-current="page">Gizlilik</a><a href="../delete-account/">Hesap silme</a></nav></div></header>
 <main id="icerik"><header class="pagehead"><div class="wrap"><a class="crumb" href="../">← Worldia</a><p class="eyebrow">02 / GİZLİLİK</p><h1>Worldia Gizlilik Politikası</h1><p class="intro">Yayıncı: SoftwareLuna · Son güncelleme: 14 Kasım 2026</p></div></header><div class="wrap layout"><article class="copy" aria-label="Worldia Gizlilik Politikası"><section aria-labelledby="cihaz">
   <h2 id="cihaz">Tek kişilik oyun ve cihazınızdaki kayıtlar</h2>
   <p>Worldia’yı hesap açmadan, çevrimdışı oynayabilirsiniz. Gezgin adınız, seçtiğiniz avatar, bölüm ilerlemeniz, pasaport damgalarınız, yıldızlarınız, günlük seriniz, tek kişilik başarımlarınız, alınmış ödülleriniz, bilet ve joker bakiyeleriniz cihazınızda saklanır. Çevrimiçi hesap açmak, tek kişilik ilerlemenizi başka bir cihaza taşımaz.</p>
